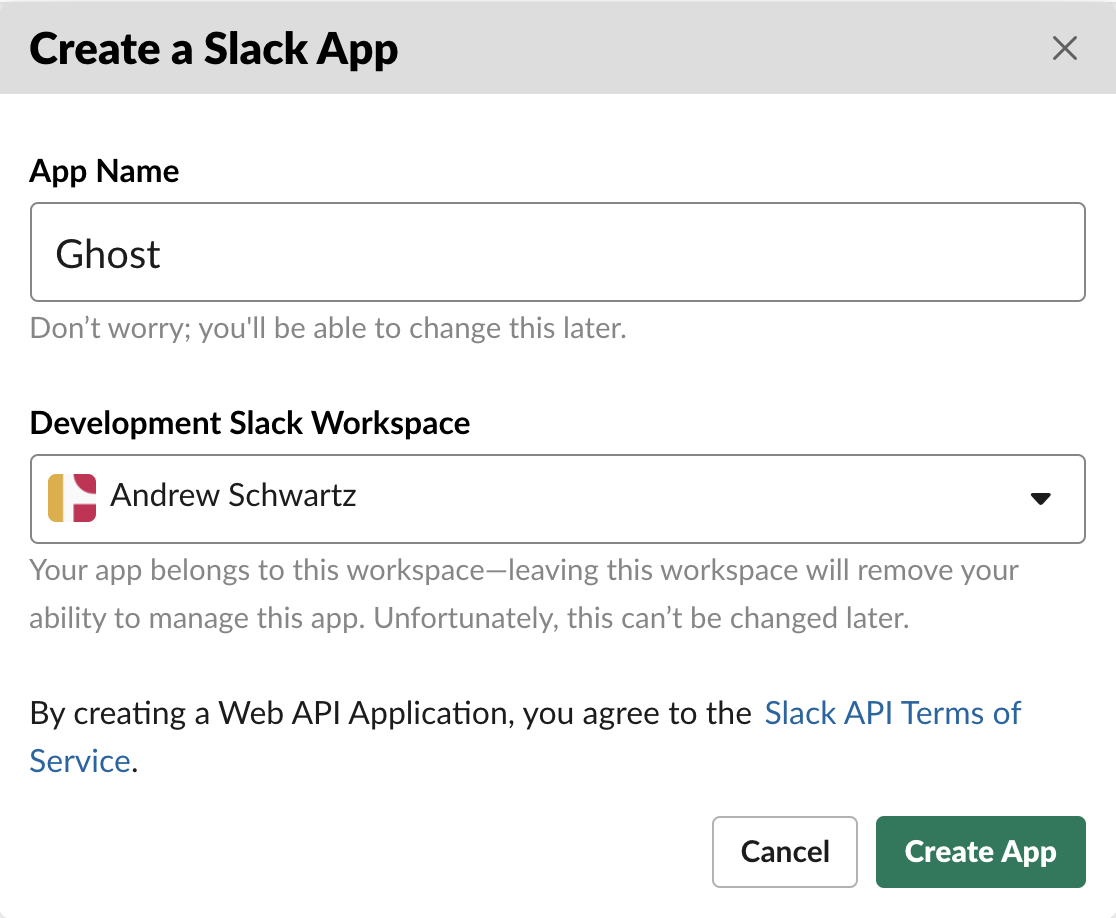
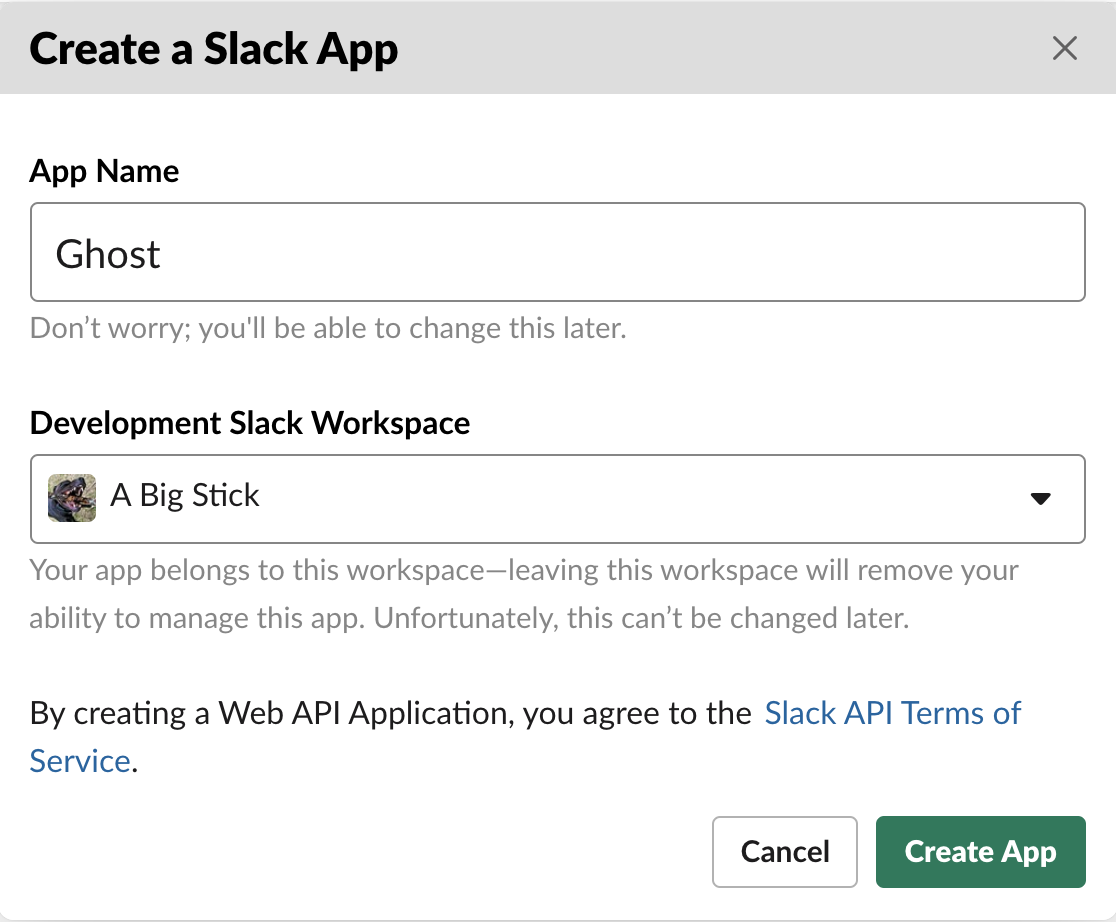
post(slacking-aronud) Using webhooks

diff --git a/_posts/2019-09-12-slacking-around.md b/_posts/2019-09-12-slacking-around.md
@@ -44,3 +44,121 @@ curl -X POST -H 'Content-type: application/json' --data '{"text":"Hello, World!"
 Copy and paste that into a terminal and see the message!
 
 {% include post_image.html name="webhook-message.png" width="500px" alt="Webhook message" title="Webhook message"%}
+
+You'll also notice that Slack announces to the incoming channel that you've added an integration.
+
+## Talking with Ghosts
+
+Now that we have an incoming webhook, we need a way to trigger it. Head over to your other workspace and create an app for that workspace too. We're going to first add the ability to post messages to the other workspace via the webhook we already created. To do that, we'll use Slack's "Slash Commands" feature.
+
+{% include post_image.html name="slash-commands.png" width="500px" alt="Slash command feature" title="Slash commands"%}
+
+We'll create a slash command, `/haunt` that allows us to send messages to the webhook typing, for example `/haunt Hello from the other side!`. As we set this up, you'll notice we need a POST URL to send the slash command data to.
+
+{% include post_image.html name="create-slash-command.png" width="500px" alt="Create slash command dialog" title="Create slash command"%}
+
+For this we're going to use Google Cloud Functions. Mostly using default settings, this will set up an http endpoint we can give slack.
+
+{% include post_image.html name="create-cloud-function.png" width="500px" alt="Create cloud function dialog" title="Create cloud function"%}
+
+I'm going to use Node.js 8 as the runtime. We'll start out with the following code to look at what Slack sends us.
+
+```js
+/**
+ * Responds to any HTTP request.
+ *
+ * @param {!express:Request} req HTTP request context.
+ * @param {!express:Response} res HTTP response context.
+ */
+exports.haunt = (req, res) => {
+  body = req.body;
+  console.log(body)
+  res.status(200).send("ok");
+};
+```
+
+Note that I've changed the default `helloWorld` function name to `haunt`. Make sure to change "Function to execute" setting accordingly.
+
+Copy the function's URL, then hit "Create". If you forget to copy the URL, you can find it again in the "Triggers" tab. Paste the URL into your Slack slash command.
+
+To trigger this new slash command, we need to install the app. Find "Install App" in the side panel of app.slack.com and hit "Install App to Workspace". This will bring up an oauth page that grants your app permissions to add slash commands.
+
+With the slash command created, head back into Slack and start typing `/haunt`. If everything is set up right, you'll immediately see the help message pop up. Notice that this is for our second app in our personal workspace. I've called this second app Haunt instead of Ghost and used a modified version of the icon I used for the Ghost app in the A Big Stick workspace.
+
+{% include post_image.html name="slash-command-autocomplete.png" width="500px" alt="Autocomplete dialog for slash command" title="Slash command autocomplete"%}
+
+Type in a message and in a short while you'll get the "ok" response that our Cloud Function returns.
+
+{% include post_image.html name="slash-command-ok.png" width="500px" alt="OK response" title="Slash command ok"%}
+
+Head back to the cloud function and click "View Logs". You should see exactly one function execution. If you triggered it multiple times find the appropriate log entry. You'll see that our `console.log` statement told us what we're working with:
+
+```
+textPayload: "{ token: '[---REDACTED---]',
+  team_id: '[---REDACTED---]',
+  team_domain: '[---REDACTED---]',
+  channel_id: '[---REDACTED---]',
+  channel_name: 'directmessage',
+  user_id: '[---REDACTED---]',
+  user_name: '[---REDACTED---]',
+  command: '/haunt',
+  text: 'Oooooooo!!!',
+  response_url: 'https://hooks.slack.com/commands/[---REDACTED---]',
+  trigger_id: '760926744263.431810811761.0e7bf2c9fd50d6caa2f5a0e58d620674' }"
+```
+
+Pardon the redactions, but I don't want to make your job spamming my slack any easier. In any case, we have the pieces we need: the user id/name, the text that was sent, and, from before, the incoming web hook URL. Now we just need a way to have our cloud function send a POST request to our incoming webhook and we've completed the first part of functionality.
+
+To to the POST, I'm going to install the `axios` npm library. Click "Edit" on the function and click into `package.json` and add axios into the package dependencies. The final result will look something like
+
+
+```json
+{
+  "name": "sample-http",
+  "version": "0.0.1",
+  "dependencies": {
+    "axios": "^0.19.0"
+  }
+}
+```
+
+Then modify index.js to the following code. We'll send an imediate response, `"Sending..."`, followed by a confirmation or error message to the `response_url` given to us by slack.
+
+```js
+const axios = require('axios');
+const webhookUrl = 'YOUR WEBHOOK URL';
+
+exports.haunt = (req, res) => {
+  body = req.body;
+  console.log(body);
+  const text = body.text;
+  const data = { text };
+
+  axios({
+    method: "POST",
+    url: webhookUrl,
+    data,
+  }).then(res => {
+    axios.post(body.response_url, {text: `Message\n>${text}\nconfirmed.`})
+  }).catch(err => {
+    console.log(err);
+    axios.post(body.response_url, {text: `Message\n${text}\nfailed!`})
+  });
+
+  res.status(200).send("Sending...");
+};
+```
+
+Hit "Deploy" at the bottom of the page, and wait for the deploy to finish. Once it does, head back to Slack and try out your slash command again!
+
+Success!
+
+{% include post_image.html name="slash-command-received.png" width="500px" alt="Slash command received" title="Slash command received"%}
+
+And the confirmation message
+
+{% include post_image.html name="slash-command-confirmed.png" width="500px" alt="Slash command confirmed" title="Slash command confirmed"%}
+
+## Listen up
+
+So far we've just created a way to send messages. We also need to be able to receive them!
